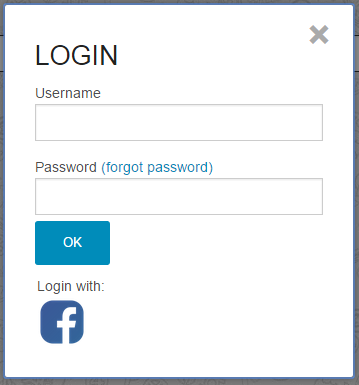
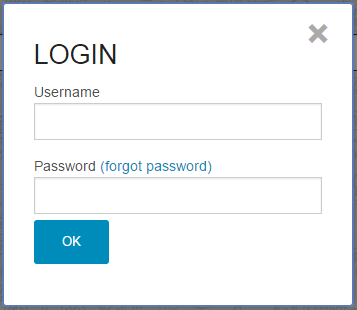
tolto facebook

diff --git a/esterni/manualeUtente/sections/start.tex b/esterni/manualeUtente/sections/start.tex
@@ -21,13 +21,6 @@ Per creare un nuovo account utente è necessario premere il pulsante \textbf{Sig
 	\caption{Registrazione} 
 \end{figure}
 
-\noindent È possibile inoltre effettuare la registrazione tramite un account Facebook\ped{G}, premendo il pulsante apposito posto sotto il tasto \textbf{Confirm}, come si può vedere in figura.
-
-\begin{figure}[H] 
-	\centering 
-	\includegraphics[scale=0.40] {img/facereg.png}
-	\caption{Registrazione tramite Facebook} 
-\end{figure}
 
 \noindent Nel caso in cui tutti i dati inseriti siano stati accettati, il sistema effettuerà in automatico il login del nuovo utente creato reindirizzandolo alla sua pagina personale.
 In caso contrario verranno segnalati i campi dati da correggere.
@@ -39,14 +32,6 @@ Se un utente è già in possesso di un account e vuole autenticarsi è necessari
 	\centering 
 	\includegraphics[scale=0.40] {img/login.png}
 	\caption{Login} 
-\end{figure}
-
-\noindent Nel caso in cui l'utente si sia registrato tramite account Facebook\ped{G}, per effettuare il login è necessario che prema il pulsante dedicato posto sotto il tasto \textbf{OK}.
-
-\begin{figure}[H] 
-	\centering 
-	\includegraphics[scale=0.40] {img/facelog.png}
-	\caption{Login tramite Facebook} 
 \end{figure}
 
 \noindent Se i dati inseriti sono corretti il sistema reindirizzerà l'utente alla propria pagina personale, altrimenti verrà segnalato un errore nelle credenziali inserite.
